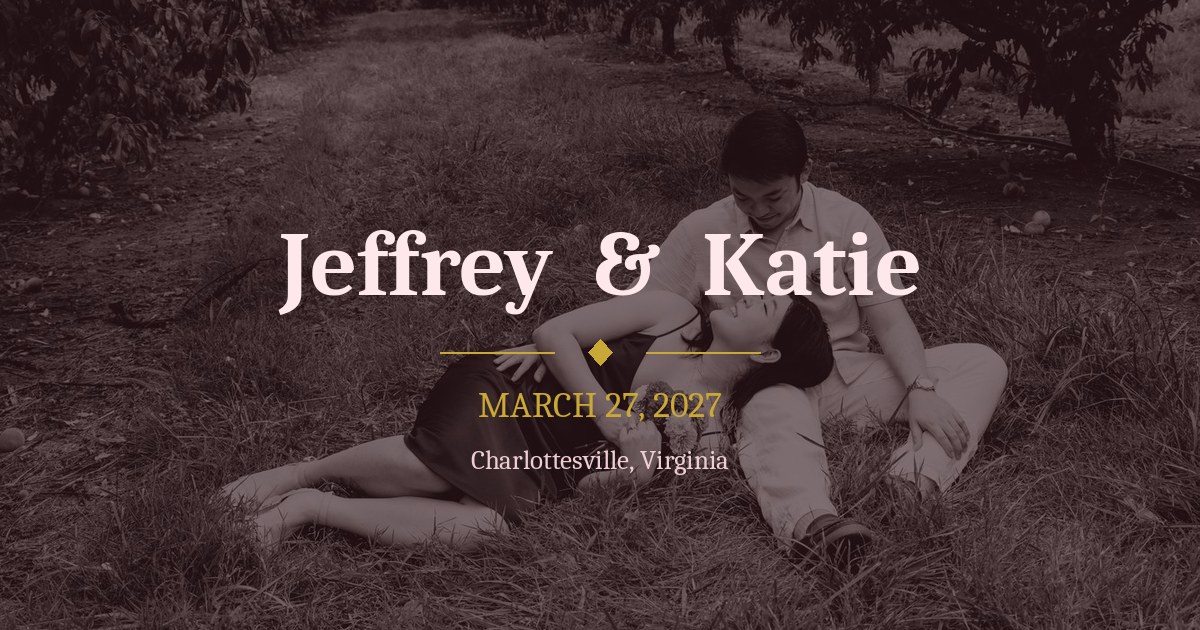
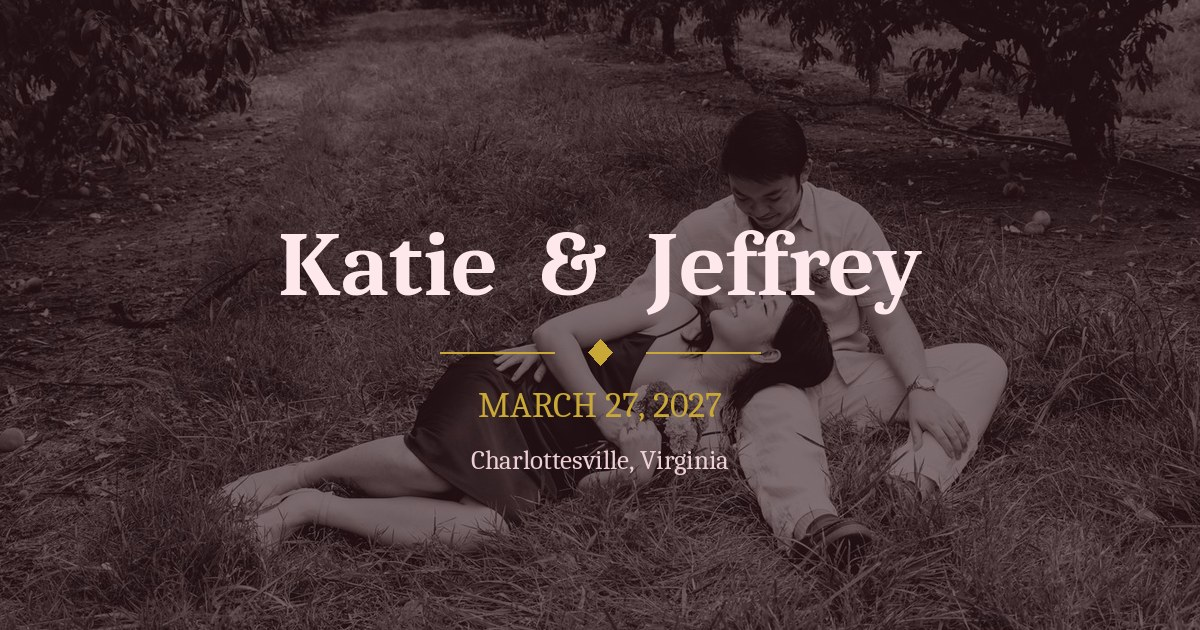
Put Katie first in every name pairing, set the two-main menu, add allergy note
Names: every pairing now reads "Katie & Jeffrey" / "Katie and Jeffrey" /
"Katie Shen & Jeffrey Shi" — page titles and share metadata, the hero, the
intro envelope, the navbar monogram (K & J), the footer, all four emails
and their fallback sender name, the calendar event and its download
filename, image alt text, Our Story prose and the FAQ contact list. The
share-preview image is regenerated with the new order. The calendar
event's UID is left as it was: it is never shown, and changing it would
duplicate the event for anyone who already added it.

Menu: the mains are now Sea Bass and Braised Beef Short Rib. The five
special meals are unchanged.

Allergies: both RSVP forms now say under the allergies field that we
cannot guarantee we can accommodate every request but will do our best.

Claude-Session: https://claude.ai/code/session_016GUFRvARsqAmCkLk3zuhDT

Changed region(s): [[0.2158, 0.3619, 0.7708, 0.5127]]

diff --git a/app/api/rsvp/route.ts b/app/api/rsvp/route.ts
@@ -64,7 +64,7 @@ function buildRSVPEmail(data: {
           <table width="560" cellpadding="0" cellspacing="0" style="background:#fff;max-width:560px;width:100%;">
             <tr>
               <td style="background:#1E0008;padding:32px;text-align:center;">
-                <p style="margin:0;font-family:Georgia,serif;font-style:italic;color:#c9a838;font-size:13px;letter-spacing:0.2em;">Jeffrey &amp; Katie</p>
+                <p style="margin:0;font-family:Georgia,serif;font-style:italic;color:#c9a838;font-size:13px;letter-spacing:0.2em;">Katie &amp; Jeffrey</p>
                 <h1 style="margin:8px 0 0;font-family:Georgia,serif;color:#FEE8EC;font-size:28px;font-weight:normal;">
                   ${attending ? "RSVP Confirmed" : "We'll Miss You"}
                 </h1>
@@ -116,7 +116,7 @@ function buildRSVPEmail(data: {
             </tr>
             <tr>
               <td style="background:#FEE8EC;padding:20px;text-align:center;">
-                <p style="margin:0;font-family:sans-serif;font-size:12px;color:#8B0010;">Jeffrey &amp; Katie · March 27, 2027 · Charlottesville, VA</p>
+                <p style="margin:0;font-family:sans-serif;font-size:12px;color:#8B0010;">Katie &amp; Jeffrey · March 27, 2027 · Charlottesville, VA</p>
               </td>
             </tr>
           </table>
@@ -192,7 +192,7 @@ export async function POST(req: NextRequest) {
   let emailed = true;
 
   if (email && process.env.RESEND_API_KEY) {
-    const from = process.env.REGISTRY_FROM_EMAIL ?? "Jeffrey & Katie <onboarding@resend.dev>";
+    const from = process.env.REGISTRY_FROM_EMAIL ?? "Katie & Jeffrey <onboarding@resend.dev>";
     // Links must be absolute in email; prefer the configured site URL and fall
     // back to the origin this request arrived on.
     const origin  = process.env.NEXT_PUBLIC_SITE_URL ?? req.nextUrl.origin;
@@ -203,8 +203,8 @@ export async function POST(req: NextRequest) {
       from,
       to:      email,
       subject: attending === "yes"
-        ? "You're on the list! RSVP confirmed — Jeffrey & Katie 💍"
-        : "RSVP received — Jeffrey & Katie",
+        ? "You're on the list! RSVP confirmed — Katie & Jeffrey 💍"
+        : "RSVP received — Katie & Jeffrey",
       html: buildRSVPEmail({ name: name ?? "", attending, plusOne, plusOneName, meal, plusOneMeal, dietary, message, editUrl, icsUrl }),
     });
 

diff --git a/app/api/registry/cash/route.ts b/app/api/registry/cash/route.ts
@@ -45,7 +45,7 @@ function buildEmail(guestName: string, amount: string, method: string, note: str
           <table width="560" cellpadding="0" cellspacing="0" style="background:#fff;max-width:560px;width:100%;">
             <tr>
               <td style="background:#1E0008;padding:32px;text-align:center;">
-                <p style="margin:0;font-family:Georgia,serif;font-style:italic;color:#c9a838;font-size:13px;letter-spacing:0.2em;">Jeffrey &amp; Katie</p>
+                <p style="margin:0;font-family:Georgia,serif;font-style:italic;color:#c9a838;font-size:13px;letter-spacing:0.2em;">Katie &amp; Jeffrey</p>
                 <h1 style="margin:8px 0 0;font-family:Georgia,serif;color:#FEE8EC;font-size:28px;font-weight:normal;">Thank You for Your Gift</h1>
               </td>
             </tr>
@@ -74,7 +74,7 @@ function buildEmail(guestName: string, amount: string, method: string, note: str
             </tr>
             <tr>
               <td style="background:#FEE8EC;padding:20px;text-align:center;">
-                <p style="margin:0;font-family:sans-serif;font-size:12px;color:#8B0010;">Jeffrey &amp; Katie · March 27, 2027 · Charlottesville, VA</p>
+                <p style="margin:0;font-family:sans-serif;font-size:12px;color:#8B0010;">Katie &amp; Jeffrey · March 27, 2027 · Charlottesville, VA</p>
               </td>
             </tr>
           </table>
@@ -92,12 +92,12 @@ export async function POST(req: NextRequest) {
     return NextResponse.json({ error: "Missing fields" }, { status: 400 });
   }
 
-  const fromAddress = process.env.REGISTRY_FROM_EMAIL ?? "Jeffrey & Katie <onboarding@resend.dev>";
+  const fromAddress = process.env.REGISTRY_FROM_EMAIL ?? "Katie & Jeffrey <onboarding@resend.dev>";
 
   const { error } = await resendClient().emails.send({
     from:    fromAddress,
     to:      email,
-    subject: "Thank you for your gift — Jeffrey & Katie 💍",
+    subject: "Thank you for your gift — Katie & Jeffrey 💍",
     html:    buildEmail(guestName, amount, method, note),
   });
 

diff --git a/app/api/rsvp/resend/route.ts b/app/api/rsvp/resend/route.ts
@@ -28,7 +28,7 @@ function buildResendEmail(name: string, editUrl: string): string {
           <table width="560" cellpadding="0" cellspacing="0" style="background:#fff;max-width:560px;width:100%;">
             <tr>
               <td style="background:#1E0008;padding:32px;text-align:center;">
-                <p style="margin:0;font-family:Georgia,serif;font-style:italic;color:#c9a838;font-size:13px;letter-spacing:0.2em;">Jeffrey &amp; Katie</p>
+                <p style="margin:0;font-family:Georgia,serif;font-style:italic;color:#c9a838;font-size:13px;letter-spacing:0.2em;">Katie &amp; Jeffrey</p>
                 <h1 style="margin:8px 0 0;font-family:Georgia,serif;color:#FEE8EC;font-size:28px;font-weight:normal;">Your RSVP Link</h1>
               </td>
             </tr>
@@ -50,7 +50,7 @@ function buildResendEmail(name: string, editUrl: string): string {
             </tr>
             <tr>
               <td style="background:#FEE8EC;padding:20px;text-align:center;">
-                <p style="margin:0;font-family:sans-serif;font-size:12px;color:#8B0010;">Jeffrey &amp; Katie · March 27, 2027 · Charlottesville, VA</p>
+                <p style="margin:0;font-family:sans-serif;font-size:12px;color:#8B0010;">Katie &amp; Jeffrey · March 27, 2027 · Charlottesville, VA</p>
               </td>
             </tr>
           </table>
@@ -108,9 +108,9 @@ export async function POST(req: NextRequest) {
     }
 
     await new Resend(process.env.RESEND_API_KEY).emails.send({
-      from:    process.env.REGISTRY_FROM_EMAIL ?? "Jeffrey & Katie <onboarding@resend.dev>",
+      from:    process.env.REGISTRY_FROM_EMAIL ?? "Katie & Jeffrey <onboarding@resend.dev>",
       to:      address,
-      subject: "Your RSVP link — Jeffrey & Katie",
+      subject: "Your RSVP link — Katie & Jeffrey",
       html:    buildResendEmail(name, editUrl),
     });
   } catch (err: any) {

diff --git a/app/api/registry/claim/route.ts b/app/api/registry/claim/route.ts
@@ -55,7 +55,7 @@ function buildEmail(guestName: string, items: ClaimItem[]): string {
             <tr>
               <td style="background:#1E0008;padding:32px;text-align:center;">
                 <p style="margin:0;font-family:Georgia,serif;font-style:italic;color:#c9a838;font-size:13px;letter-spacing:0.2em;">
-                  Jeffrey &amp; Katie
+                  Katie &amp; Jeffrey
                 </p>
                 <h1 style="margin:8px 0 0;font-family:Georgia,serif;color:#FEE8EC;font-size:28px;font-weight:normal;">
                   Your Registry Picks
@@ -106,7 +106,7 @@ function buildEmail(guestName: string, items: ClaimItem[]): string {
             <tr>
               <td style="background:#FEE8EC;padding:20px;text-align:center;">
                 <p style="margin:0;font-family:sans-serif;font-size:12px;color:#8B0010;">
-                  Jeffrey &amp; Katie · March 27, 2027 · Charlottesville, VA
+                  Katie &amp; Jeffrey · March 27, 2027 · Charlottesville, VA
                 </p>
               </td>
             </tr>
@@ -216,12 +216,12 @@ export async function POST(req: NextRequest) {
   }
 
   // ── Send email ────────────────────────────────────────────────────────────
-  const fromAddress = process.env.REGISTRY_FROM_EMAIL ?? "Jeffrey & Katie <onboarding@resend.dev>";
+  const fromAddress = process.env.REGISTRY_FROM_EMAIL ?? "Katie & Jeffrey <onboarding@resend.dev>";
 
   const { error } = await resendClient().emails.send({
     from:    fromAddress,
     to:      email,
-    subject: "Your picks from Jeffrey & Katie's Registry 💍",
+    subject: "Your picks from Katie & Jeffrey's Registry 💍",
     html:    buildEmail(guestName, items),
   });
 

diff --git a/lib/meals.ts b/lib/meals.ts
@@ -10,9 +10,8 @@
  * allergy is a note to the kitchen about a chosen plate, not a plate of
  * its own.
  *
- * The labels below are placeholders — edit them to the real menu. Changing an
- * `id` after invitations go out orphans meals already stored in Notion, so
- * change labels freely and ids never.
+ * Changing an `id` after invitations go out orphans meals already stored in
+ * Notion, so change labels freely and ids never.
  */
 
 export type MealKind = "main" | "special";
@@ -28,10 +27,9 @@ export interface MealOption {
 }
 
 export const MEAL_OPTIONS: MealOption[] = [
-  // ── The three mains ──────────────────────────────────────────────────────
-  { id: "beef",    label: "Braised Short Rib",    note: "with roasted root vegetables", kind: "main" },
-  { id: "chicken", label: "Herb-Roasted Chicken", note: "with lemon and new potatoes",  kind: "main" },
-  { id: "fish",    label: "Pan-Seared Salmon",    note: "with spring greens",           kind: "main" },
+  // ── The two mains ────────────────────────────────────────────────────────
+  { id: "fish", label: "Sea Bass",                kind: "main" },
+  { id: "beef", label: "Braised Beef Short Rib",  kind: "main" },
 
   // ── Special meals, prepared separately ───────────────────────────────────
   { id: "vegetarian",  label: "Vegetarian",  kind: "special" },

diff --git a/components/OurStory.tsx b/components/OurStory.tsx
@@ -5,7 +5,7 @@ const milestones = [
   {
     year: "September 1, 2018",
     title: "How We Met",
-    body: "At UVA, the Chinese Student Association and the Greek life worlds of Lambda Phi Epsilon and Alpha Kappa Delta Phi had a way of bringing the same people together. On the first day of September, those overlapping circles put Jeffrey and Katie in the same room — and it only took a few of those moments to realize they were meant to keep finding each other.",
+    body: "At UVA, the Chinese Student Association and the Greek life worlds of Lambda Phi Epsilon and Alpha Kappa Delta Phi had a way of bringing the same people together. On the first day of September, those overlapping circles put Katie and Jeffrey in the same room — and it only took a few of those moments to realize they were meant to keep finding each other.",
   },
   {
     year: "October 9, 2018",
@@ -30,7 +30,7 @@ const milestones = [
   {
     year: "March 2027",
     title: "The Wedding",
-    body: "Almost six years after they last called it home, Jeffrey and Katie are coming back to Charlottesville. They'll say their vows a short walk from where two sets of friends first overlapped — ending where they began, and beginning again.",
+    body: "Almost six years after they last called it home, Katie and Jeffrey are coming back to Charlottesville. They'll say their vows a short walk from where two sets of friends first overlapped — ending where they began, and beginning again.",
   },
 ];
 

diff --git a/app/layout.tsx b/app/layout.tsx
@@ -30,17 +30,17 @@ export const viewport = {
 
 export const metadata: Metadata = {
   other: { "darkreader-lock": "" },
-  title: "Jeffrey & Katie — March 27, 2027",
-  description: "Join us as we celebrate the wedding of Jeffrey Shi & Katie Shen in Charlottesville, VA.",
+  title: "Katie & Jeffrey — March 27, 2027",
+  description: "Join us as we celebrate the wedding of Katie Shen & Jeffrey Shi in Charlottesville, VA.",
   openGraph: {
-    title: "Jeffrey & Katie — March 27, 2027",
-    description: "Join us as we celebrate the wedding of Jeffrey Shi & Katie Shen in Charlottesville, VA.",
+    title: "Katie & Jeffrey — March 27, 2027",
+    description: "Join us as we celebrate the wedding of Katie Shen & Jeffrey Shi in Charlottesville, VA.",
     type: "website",
   },
   twitter: {
     card: "summary_large_image",
-    title: "Jeffrey & Katie — March 27, 2027",
-    description: "Join us as we celebrate the wedding of Jeffrey Shi & Katie Shen in Charlottesville, VA.",
+    title: "Katie & Jeffrey — March 27, 2027",
+    description: "Join us as we celebrate the wedding of Katie Shen & Jeffrey Shi in Charlottesville, VA.",
   },
   // Keep the wedding out of search results: the site carries the venue, the
   // date and, nearer the day, guest names and table assignments.

diff --git a/components/Gallery.tsx b/components/Gallery.tsx
@@ -9,7 +9,7 @@ import { AnimatePresence, motion } from "framer-motion";
 const photos = [
   {
     src: "/photo-walking.jpg",
-    alt: "Jeffrey and Katie walking together",
+    alt: "Katie and Jeffrey walking together",
     caption: "Where we wander",
   },
   {
@@ -19,7 +19,7 @@ const photos = [
   },
   {
     src: "/photoshoot-1.jpg",
-    alt: "Jeffrey and Katie standing together in a meadow below the hills",
+    alt: "Katie and Jeffrey standing together in a meadow below the hills",
     caption: "The long view",
   },
   {
@@ -29,7 +29,7 @@ const photos = [
   },
   {
     src: "/photoshoot-3.jpg",
-    alt: "Jeffrey and Katie sitting in the grass of a peach orchard",
+    alt: "Katie and Jeffrey sitting in the grass of a peach orchard",
     caption: "An afternoon in the orchard",
   },
   {
@@ -39,7 +39,7 @@ const photos = [
   },
   {
     src: "/photoshoot-4.jpg",
-    alt: "Jeffrey and Katie beneath the peach trees in late summer",
+    alt: "Katie and Jeffrey beneath the peach trees in late summer",
     caption: "Late summer",
   },
 ];

diff --git a/components/Hero.tsx b/components/Hero.tsx
@@ -43,11 +43,11 @@ export default function Hero() {
         </p>
 
         <h1 className="font-script text-8xl md:text-[10rem] text-bark mb-6 leading-none">
-          <span className="hero-enter block [animation-delay:150ms]">Jeffrey</span>
+          <span className="hero-enter block [animation-delay:150ms]">Katie</span>
           <span className="hero-enter block font-script text-5xl md:text-7xl text-rose-deep my-1 [animation-delay:350ms]">
             &amp;
           </span>
-          <span className="hero-enter block [animation-delay:550ms]">Katie</span>
+          <span className="hero-enter block [animation-delay:550ms]">Jeffrey</span>
         </h1>
 
         <div className="hero-enter flex items-center gap-4 mb-8 [animation-delay:750ms]">

diff --git a/components/SeatingChart.tsx b/components/SeatingChart.tsx
@@ -440,7 +440,7 @@ export default function SeatingChart() {
         <div className="bg-crimson-darkest text-rose-blush px-6 py-3 flex items-center justify-between shrink-0">
           <div>
             <h1 className="font-serif text-xl leading-none">Seating Chart</h1>
-            <p className="font-sans text-rose-soft/50 text-xs mt-0.5">Jeffrey &amp; Katie · March 27, 2027</p>
+            <p className="font-sans text-rose-soft/50 text-xs mt-0.5">Katie &amp; Jeffrey · March 27, 2027</p>
           </div>
           <div className="flex items-center gap-5">
             {saving && <span className="font-sans text-rose-soft/50 text-xs animate-pulse">Saving…</span>}

diff --git a/app/seating/PasswordGate.tsx b/app/seating/PasswordGate.tsx
@@ -33,7 +33,7 @@ export default function PasswordGate() {
       <div className="bg-white/80 border border-rose-soft/30 p-10 max-w-sm w-full text-center shadow-sm">
         <p className="font-serif italic text-gold text-sm mb-2">Private Access</p>
         <h1 className="font-serif text-3xl text-bark mb-2">Seating Chart</h1>
-        <p className="font-sans text-bark/50 text-sm mb-8">Jeffrey &amp; Katie · March 27, 2027</p>
+        <p className="font-sans text-bark/50 text-sm mb-8">Katie &amp; Jeffrey · March 27, 2027</p>
         <form onSubmit={handleSubmit} className="space-y-4">
           <input
             type="password"

diff --git a/components/RSVP.tsx b/components/RSVP.tsx
@@ -226,6 +226,9 @@ export default function RSVP() {
                         placeholder="Nut allergy, shellfish, etc."
                         className="w-full border border-rose-soft/60 bg-ivory/80 px-4 py-3 font-sans text-bark placeholder-bark/30 focus:outline-none focus:border-rose-deep"
                       />
+                      <p className="font-sans text-xs text-bark/50 mt-1.5 leading-relaxed">
+                        We can&apos;t guarantee we can accommodate every request, but we&apos;ll do our best.
+                      </p>
                     </div>
                   </>
                 )}
